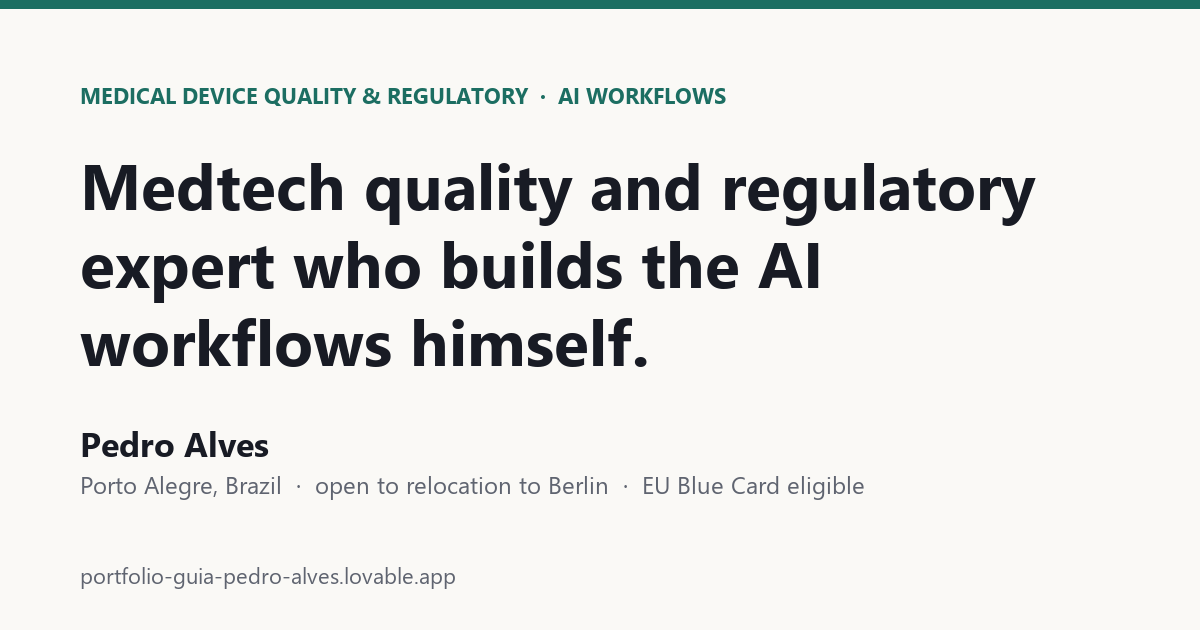
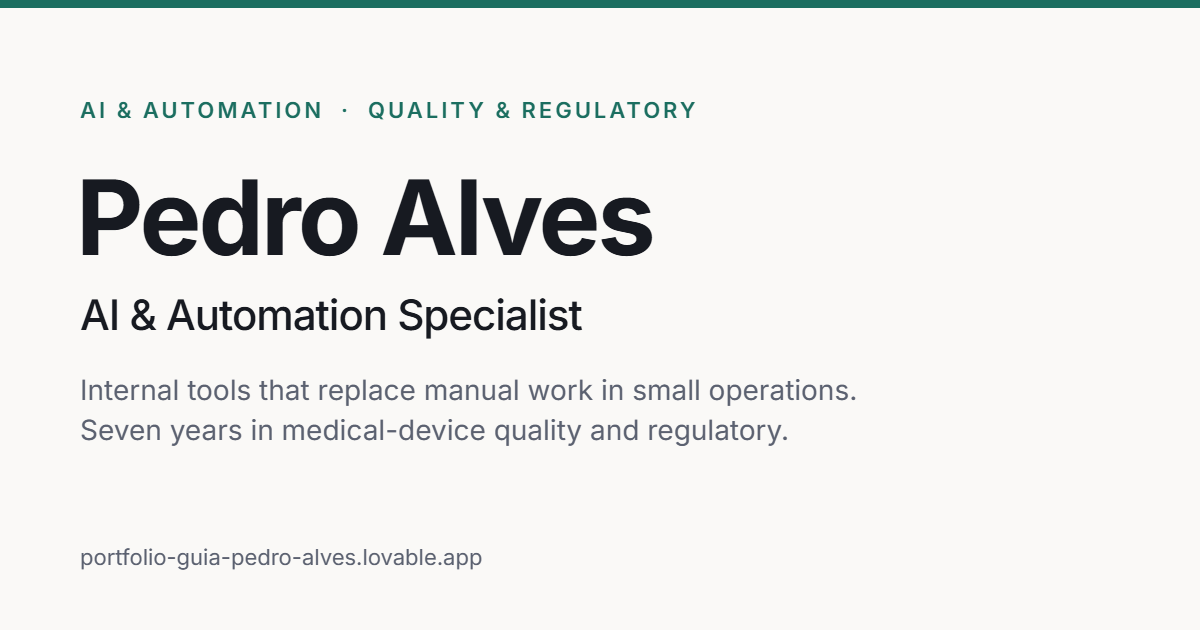
Links no hero, nova imagem de compartilhamento, limpeza e revisão de texto
Hero ganha links discretos para projetos e contato. og.png refeito com
"Pedro Alves · AI & Automation Specialist" no estilo do site. Remove
public/work/amaro.png, sem uso. Revisão de texto em PT e EN: frases com
sujeito, sem voz passiva, setas trocadas por "de X para Y", correção de
concordância e de data em inglês.

diff --git a/src/content/portfolio.ts b/src/content/portfolio.ts
@@ -38,6 +38,10 @@ export const hero = {
       "Portuguese native · English C1 · Spanish reading",
     ],
   } satisfies LList,
+  links: {
+    work: { pt: "Ver projetos", en: "See work" },
+    contact: { pt: "Contato", en: "Contact" },
+  },
 };
 
 export type ProjectStatus = "live" | "production" | "paused";
@@ -86,8 +90,8 @@ export const projects: Project[] = [
       en: "The full Anvisa device database in one search, updated daily, with company data from Firecrawl, Google sign-in and a 7-day trial. I wrote the PRD, built it on Lovable and Supabase and used LogRocket replays to fix sign-up drop-off.",
     },
     outcome: {
-      pt: "Horas de pesquisa em portais viram uma busca só. Lançado no LinkedIn; em validação de mercado, ainda sem clientes pagantes.",
-      en: "Hours of portal research become a single search. Launched on LinkedIn; now in market validation, no paying customers yet.",
+      pt: "Uma busca substitui horas de pesquisa em portais. Lancei no LinkedIn; está em validação de mercado, ainda sem clientes pagantes.",
+      en: "One search replaces hours of portal research. I launched it on LinkedIn; it is in market validation, no paying customers yet.",
     },
     stack: ["Lovable", "Supabase", "Firecrawl", "LogRocket", "Claude Code"],
     url: "https://miradasearch.com",
@@ -137,7 +141,7 @@ export const projects: Project[] = [
       en: "Self-service onboarding wizard, automatic detection of expiring documents, renewal requests with upload links, records updated on submission, linked to the CRM.",
     },
     outcome: {
-      pt: "De cerca de uma semana por mês para quatro horas. 50 a 60% dos fornecedores já sobe os próprios documentos.",
+      pt: "De cerca de uma semana por mês para umas quatro horas. 50 a 60% dos fornecedores já sobem os próprios documentos.",
       en: "From roughly a week a month to about four hours. 50 to 60% of suppliers now upload their own documents.",
     },
     stack: ["Lovable", "Supabase", "Automation", "CRM integration"],
@@ -163,8 +167,8 @@ export const projects: Project[] = [
       en: "First I catalogued the dimensions and weight of every product and every standard secondary and tertiary box. On that catalogue, a web app reads the order PDF, shows the extracted items for confirmation and returns which boxes to use, total weight and package count, as text ready for the customer's carrier.",
     },
     outcome: {
-      pt: "Cerca de 15 minutos economizados por pedido (estimativa). Em implantação com quem cobre a expedição.",
-      en: "About 15 minutes saved per order (estimate). Now rolling out to the people who cover shipping.",
+      pt: "Economiza cerca de 15 minutos por pedido (estimativa). Em implantação com quem cobre a expedição.",
+      en: "Saves about 15 minutes per order (estimate). Now rolling out to the people who cover shipping.",
     },
     stack: ["Claude Code", "Lovable", "Supabase"],
     image: "/work/cubage.png",
@@ -185,10 +189,10 @@ export const smallerWork = {
         pt: "Distribuidor, produto e região entram; a carta final sai, sem digitação.",
         en: "Distributor, product and region in; the final letter out, no typing.",
       },
-      metric: { pt: "40 min → 2 min por carta", en: "40 min → 2 min per letter" },
+      metric: { pt: "De 40 min para 2 min por carta", en: "From 40 min to 2 min per letter" },
     },
     {
-      title: { pt: "XML de nota fiscal → CSV", en: "Invoice XML → CSV" },
+      title: { pt: "XML de nota fiscal para CSV", en: "Invoice XML to CSV" },
       body: {
         pt: "Parser em Python que alimenta a importação do sistema de estoque.",
         en: "Python parser feeding the inventory-system import.",
@@ -249,7 +253,7 @@ export const sections = {
         role: { pt: "Fundador", en: "Founder" },
         body: {
           pt: "Licenciamento ANVISA e implantação de sistemas da qualidade para empresas clientes. Origem do Mirada Search AI.",
-          en: "ANVISA licensing and quality-system set-up for client companies. Where Mirada Search AI started.",
+          en: "ANVISA licensing and quality-system set-up for client companies. Mirada Search AI started here.",
         },
       },
       {
@@ -284,7 +288,7 @@ export const sections = {
       ],
       en: [
         "Bachelor's in Pharmacy, UFRGS, 2009 to 2016",
-        "Postgraduate in Regulatory Affairs, Instituto Racine, 2018 a 2019",
+        "Postgraduate in Regulatory Affairs, Instituto Racine, 2018 to 2019",
       ],
     } satisfies LList,
     domainLabel: { pt: "Domínio", en: "Domain" },
@@ -338,8 +342,8 @@ export const sections = {
   contact: {
     label: { pt: "Contato", en: "Contact" },
     title: {
-      pt: "Procuro funções onde domínio e construção se encontram.",
-      en: "Looking for roles where domain expertise and hands-on building meet.",
+      pt: "Procuro funções que juntem conhecimento de domínio e construção de ferramentas.",
+      en: "I'm looking for roles that combine domain expertise and hands-on building.",
     },
     body: {
       pt: "Automação e enablement com IA, backoffice e governança, apoio ao comercial, qualidade e regulatório. Em inglês ou português, presencial com relocação ou remoto.",

diff --git a/src/components/home/HeroSection.tsx b/src/components/home/HeroSection.tsx
@@ -1,4 +1,5 @@
 import { motion } from "framer-motion";
+import { ArrowDown, ArrowUpRight } from "lucide-react";
 import { useLanguage } from "@/i18n/LanguageContext";
 import { hero } from "@/content/portfolio";
 
@@ -34,6 +35,16 @@ const HeroSection = () => {
             ))}
           </ul>
 
+          <div className="mt-8 flex flex-wrap items-center gap-x-6 gap-y-2 text-sm font-medium">
+            <a href="#work" className="inline-flex items-center gap-1 text-brand hover:underline underline-offset-4">
+              {hero.links.work[lang]}
+              <ArrowDown className="h-4 w-4" aria-hidden />
+            </a>
+            <a href="#contact" className="inline-flex items-center gap-1 text-brand hover:underline underline-offset-4">
+              {hero.links.contact[lang]}
+              <ArrowUpRight className="h-4 w-4" aria-hidden />
+            </a>
+          </div>
         </motion.div>
 
       </div>
